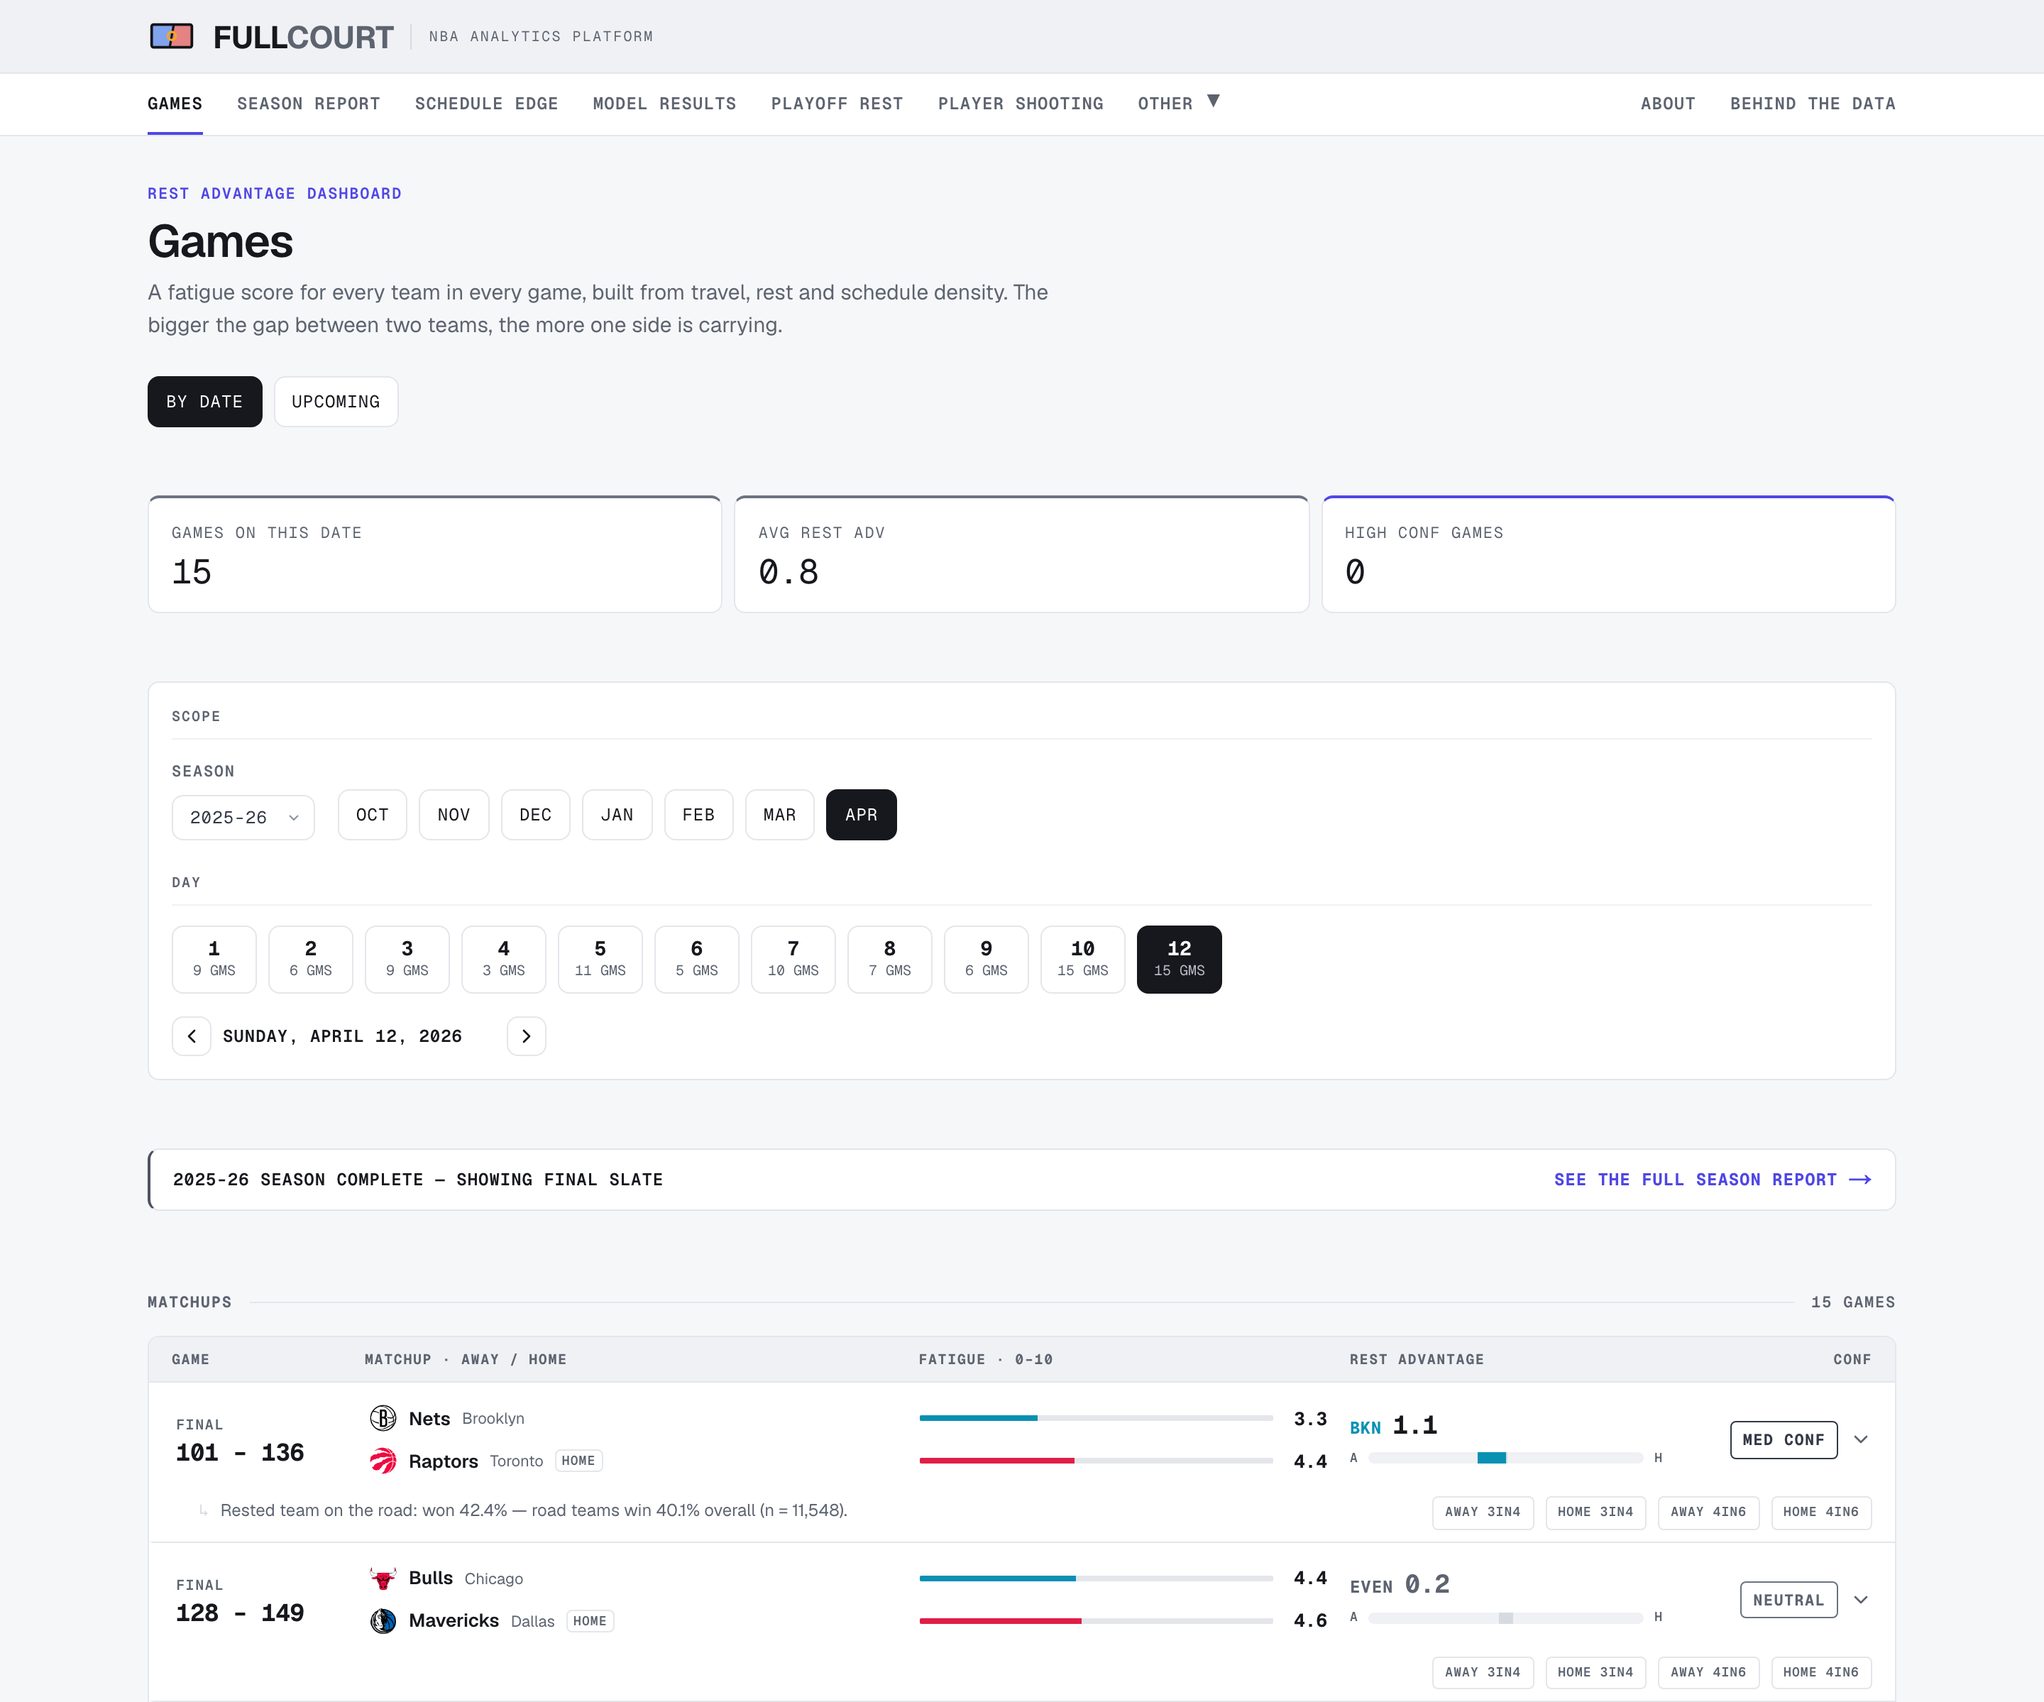
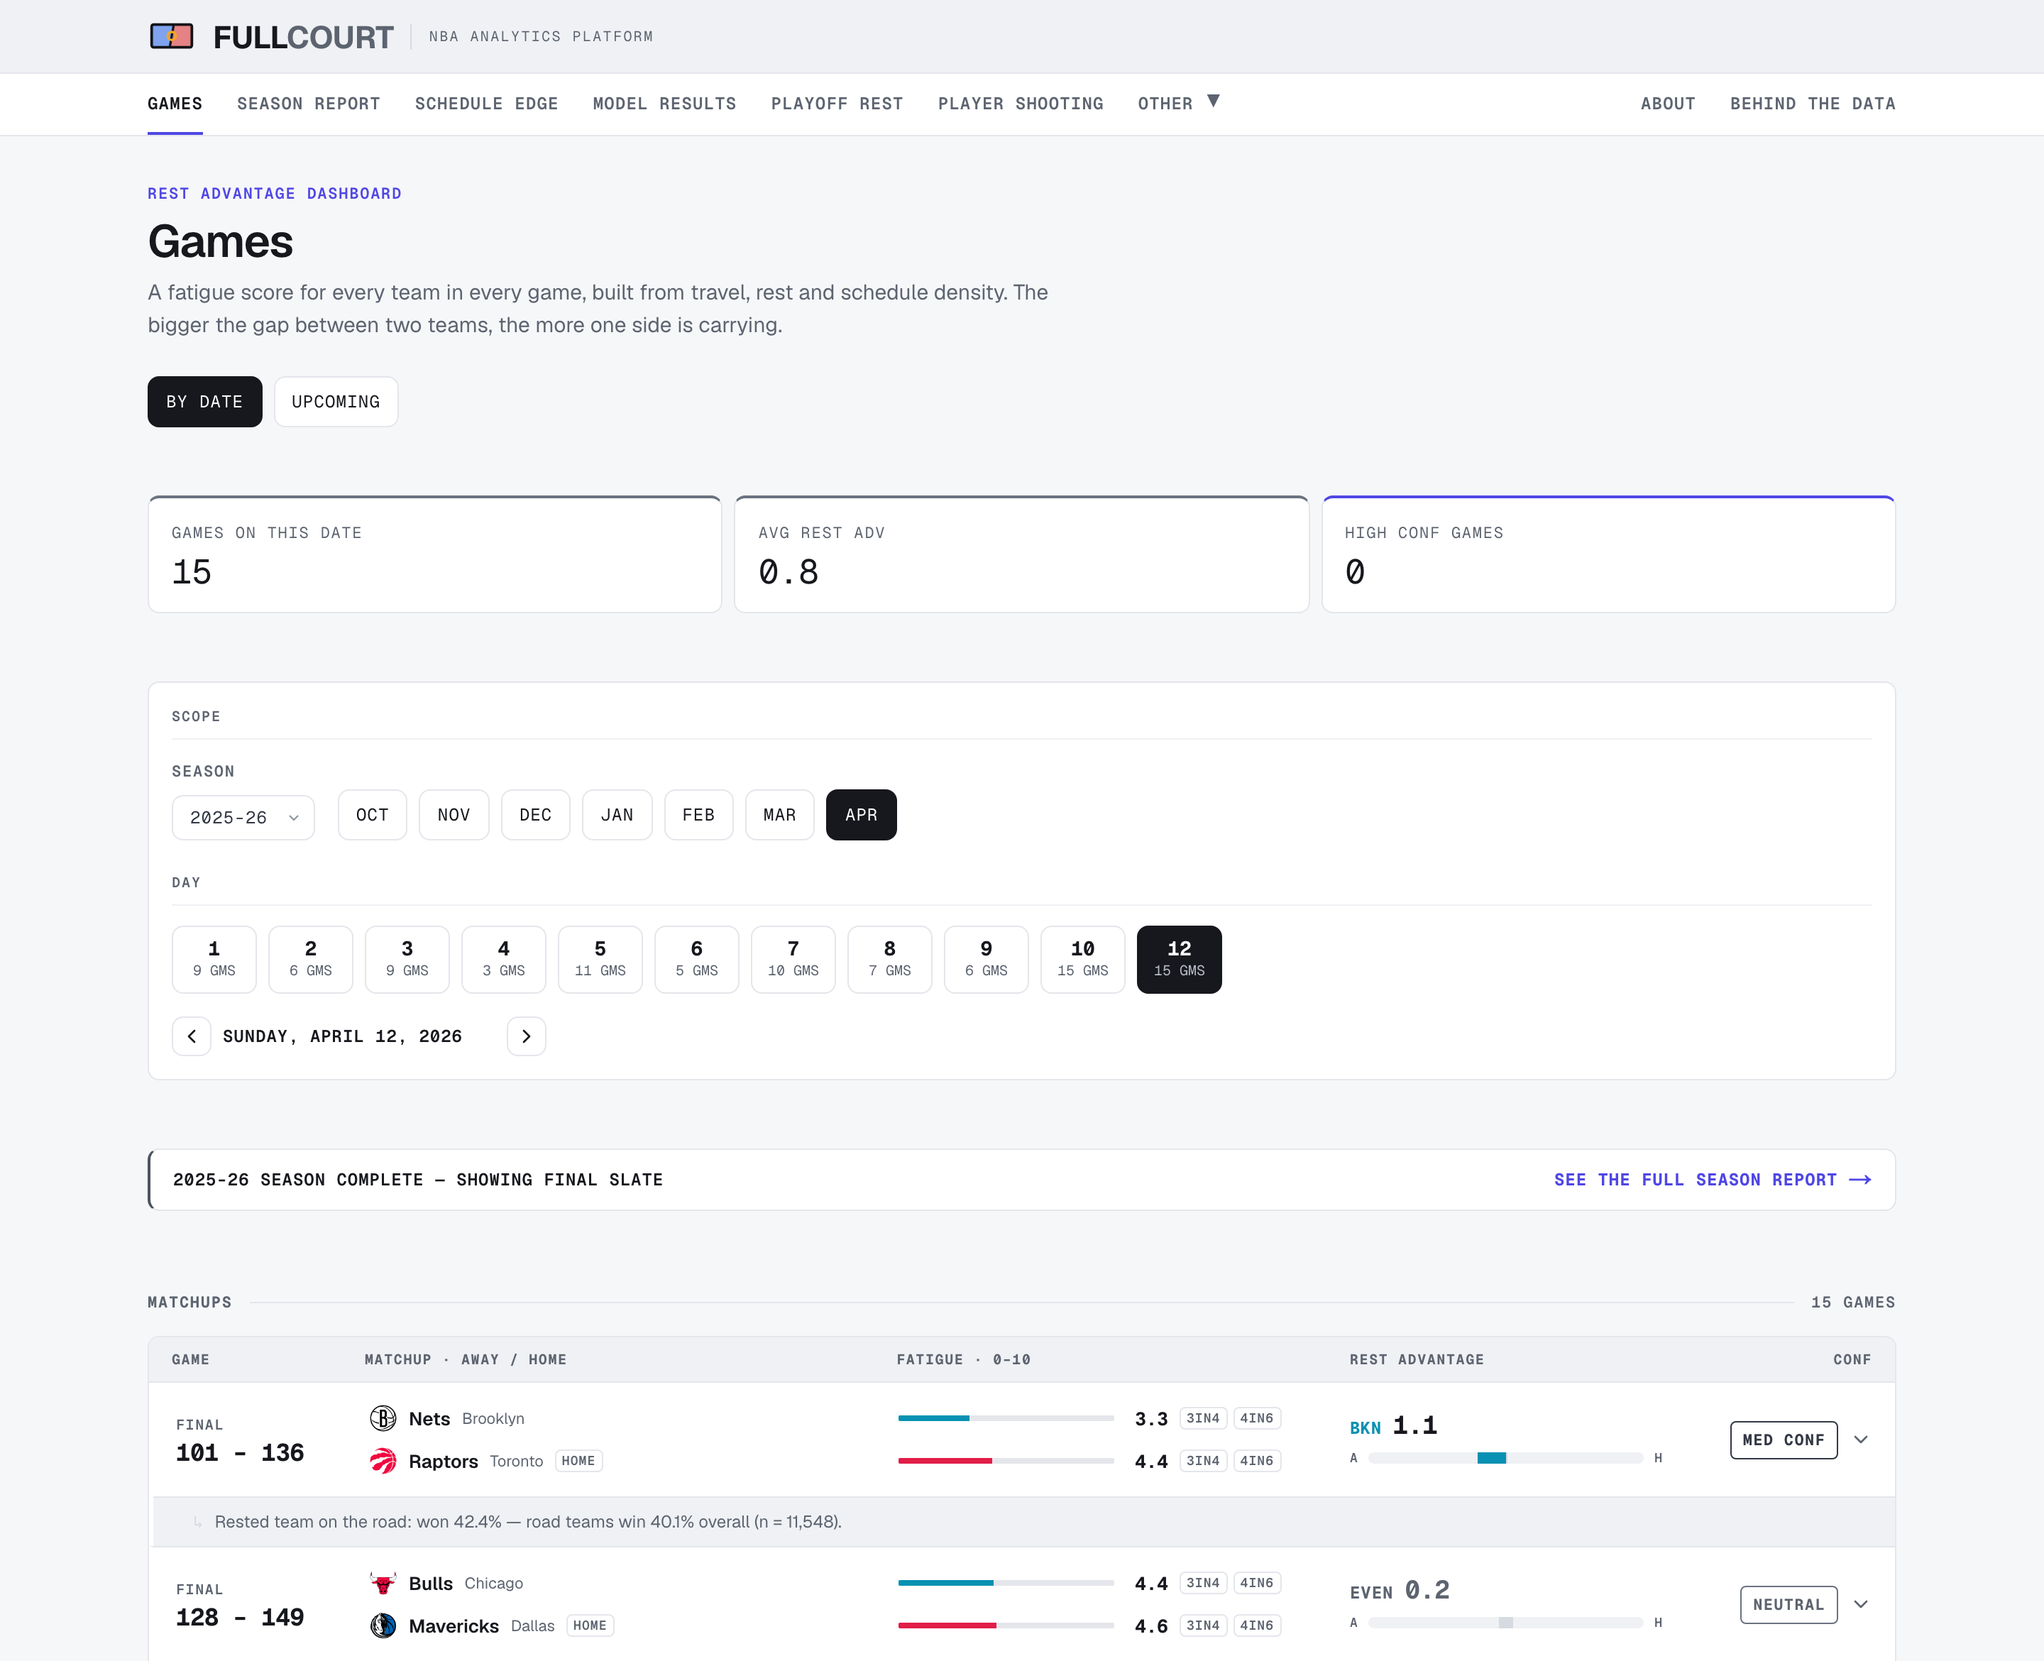
feat: give each team's schedule flags to its own fatigue line
The empty space under the team names was a full-width sub-row carrying
nothing but right-floated chips.

Measured over 79 games across ten dates: 53% of rows showed the evidence
sentence and the flags together, 43% showed flags with no sentence, and
0% ever showed a sentence with no flags. So the sub-row's two-up layout
only ever served the 'both' case, while 43% of rows paid a 32px band to
right-align three chips against 901px of nothing.

Flags now sit beside the fatigue score of the team they describe, which
is what they were describing all along, and drop the AWAY/HOME prefix —
roughly half of each chip's text, and redundant once the chip is on a
team's own line. teamGameFlags() also scopes overtime per team, which the
pooled gameFlags could not. Two chips a line then '+N', in a fixed 104px
strip so the fatigue numbers stay in one column; chips fill from the left
so a team with one flag lines up with the first flag of the team above.

The sub-row now renders for the sentence alone, tinted with a rule on top
so the height it adds reads as attached content. Rows without a sentence
are 81px against the old uniform 113px.

Fatigue column min 190 -> 232 and GRID_MIN_WIDTH 880 -> 920 to fit.

Alignment audit unchanged at 284. Vitest 621, e2e 117 passed / 5 skipped.

diff --git a/src/components/matchup-table.tsx b/src/components/matchup-table.tsx
@@ -7,7 +7,7 @@ import {
   ConfidenceBadge,
   FatigueDetailColumn,
   TeamLogo,
-  gameFlags,
+  teamGameFlags,
   getConfidence,
 } from "@/components/matchup-card"
 import { getTeamColors } from "@/lib/nba-team-colors"
@@ -17,6 +17,7 @@ import {
   type RestAdvantageEvidenceSource,
 } from "@/lib/rest-advantage-display"
 import { getTeamBranding } from "@/lib/team-history"
+import { SPACE_NESTED_ROW } from "@/lib/terminal-styles"
 import { cn } from "@/lib/utils"
 import type { GameResponse } from "@/types"
 
@@ -40,8 +41,20 @@ import type { GameResponse } from "@/types"
 // Column template shared by the header row and every game row, so the header can
 // never drift out of line with the cells beneath it.
 const GRID_COLS =
-  "minmax(96px,120px) minmax(210px,1.3fr) minmax(190px,1fr) minmax(190px,220px) minmax(118px,132px)"
-const GRID_MIN_WIDTH = 880
+  "minmax(96px,120px) minmax(210px,1.3fr) minmax(232px,1.1fr) minmax(190px,220px) minmax(118px,132px)"
+// Raised from 880 with the fatigue column, which now carries each team's schedule flags beside
+// its score. Sum of the column minimums plus four 16px gaps is 900, so this clears it.
+const GRID_MIN_WIDTH = 920
+
+/**
+ * Width reserved for a line's flag chips, so the strip is identical on every line and the
+ * fatigue numbers stay in one column however many flags a team carries.
+ *
+ * Sized for the widest thing it can hold: two four-character chips plus a `+N` overflow chip
+ * and their gaps (~98px). A single "JET LAG" is wider than one 4-char chip but never shares
+ * the strip — it sorts fifth, so it only ever appears alone or beside "ALT".
+ */
+const FLAG_STRIP_W = 104
 
 // ─── Status cell ─────────────────────────────────────────────────
 
@@ -139,16 +152,68 @@ function TeamLine({
   )
 }
 
-function FatigueLine({ score, tone }: { score: number | null; tone: FatigueBarTone }) {
+/**
+ * How many flags a line shows before collapsing the rest into a count. Measured over 79 games
+ * across ten dates: 84% of team-lines carry two or fewer, but a visiting team can stack five
+ * (B2B + 3IN4 + 4IN6 + ALT + JET LAG). Rendering all of them would either blow the column or
+ * wrap the row to a second line, and a row whose height depends on its flag count is the
+ * problem this replaced.
+ */
+const MAX_INLINE_FLAGS = 2
+
+/** The schedule flag chip — the fatigue score's reason, sitting next to the score. */
+function FlagChip({ label, muted = false }: { label: string; muted?: boolean }) {
+  return (
+    <span
+      className="mono shrink-0"
+      style={{
+        fontSize: 9,
+        letterSpacing: "0.06em",
+        fontWeight: 600,
+        color: "var(--term-text-muted)",
+        border: `1px solid var(--term-${muted ? "surface-2" : "border"})`,
+        borderRadius: "var(--term-radius-sm)",
+        padding: "0 4px",
+        lineHeight: "14px",
+      }}
+    >
+      {label}
+    </span>
+  )
+}
+
+function FatigueLine({
+  score,
+  tone,
+  flags,
+}: {
+  score: number | null
+  tone: FatigueBarTone
+  flags: string[]
+}) {
+  const shown = flags.slice(0, MAX_INLINE_FLAGS)
+  const hidden = flags.length - shown.length
+
   return (
     <div className="flex items-center gap-2" style={{ height: TEAM_LINE_H }}>
       {score !== null ? (
-        <FatigueBar score={score} tone={tone} className="flex-1" />
+        <FatigueBar score={score} tone={tone} className="min-w-[36px] flex-1" />
       ) : (
-        <div className="flex-1" style={{ height: 4, background: "var(--term-surface-2)", borderRadius: "var(--term-radius-bar)" }} />
+        <div className="min-w-[36px] flex-1" style={{ height: 4, background: "var(--term-surface-2)", borderRadius: "var(--term-radius-bar)" }} />
       )}
       <span className="mono shrink-0 tabular-nums" style={{ width: 30, fontSize: 13, fontWeight: 700, color: "var(--term-text)", textAlign: "right" }}>
         {score !== null ? score.toFixed(1) : "—"}
+      </span>
+      {/* Fixed-width so the two lines' chips align with each other and with the rows above and
+          below, whether a team carries two flags, one, or none. Chips start from the strip's
+          left edge rather than filling from its right: a list that grows rightward keeps its
+          first item on one rail, so a team with one flag lines up with the first flag of the
+          team above it instead of with that team's second. */}
+      <span className="flex shrink-0 items-center justify-start gap-1" style={{ width: FLAG_STRIP_W }}>
+        {shown.map((flag) => (
+          <FlagChip key={flag} label={flag} />
+        ))}
+        {hidden > 0 && <FlagChip label={`+${hidden}`} muted />}
       </span>
     </div>
   )
@@ -275,7 +340,7 @@ function GameRow({
     () => buildRestAdvantageEvidence(game.restAdvantage, evidenceSource),
     [game.restAdvantage, evidenceSource]
   )
-  const flags = gameFlags(game)
+  const flags = teamGameFlags(game)
   const tones = fatigueTones(game.awayFatigue?.score ?? null, game.homeFatigue?.score ?? null)
   const isLive = game.status === "live"
 
@@ -339,8 +404,8 @@ function GameRow({
         </div>
 
         <div className="flex flex-col gap-1">
-          <FatigueLine score={game.awayFatigue?.score ?? null} tone={tones.away} />
-          <FatigueLine score={game.homeFatigue?.score ?? null} tone={tones.home} />
+          <FatigueLine score={game.awayFatigue?.score ?? null} tone={tones.away} flags={flags.away} />
+          <FatigueLine score={game.homeFatigue?.score ?? null} tone={tones.home} flags={flags.home} />
         </div>
 
         <RestAdvCell
@@ -358,42 +423,33 @@ function GameRow({
         </div>
       </div>
 
-      {/* Evidence + flags sub-row. Rendered only when there is something to say — a
-          neutral game with no schedule flags adds no row at all. */}
-      {(evidence || flags.length > 0) && (
+      {/* Evidence sub-row — the exception, and now genuinely one.
+          It used to carry the schedule flags too, right-floated opposite the sentence. Measured
+          over 79 games: 53% of rows had both, 43% had flags with no sentence, and 0% ever had a
+          sentence with no flags. So the two-up layout only served the "both" case, while the
+          43% paid a full 32px band to right-align three chips against 901px of nothing — the
+          empty space under the team names. The flags now sit on their own team's fatigue line,
+          which is where they were describing all along, and this band renders for the sentence
+          alone. 47% of rows lose it entirely.
+          Tinted with a rule on top so the height it does add reads as attached content rather
+          than as the row having grown. */}
+      {evidence && (
         <div
-          className="flex flex-wrap items-baseline gap-x-3 gap-y-1"
-          style={{ padding: "0 16px 8px 32px" }}
+          style={{
+            // SPACE_NESTED_ROW, not a hand-set 32: this is a row nested inside a row group, the
+            // same shape as /shooting's expanded seasons, and docs/FRONTEND.md sanctions exactly
+            // one third rail. A second nested indent here would make that false.
+            padding: `8px 16px 8px ${SPACE_NESTED_ROW}px`,
+            background: "var(--term-surface-2)",
+            borderTop: "1px solid var(--term-border)",
+          }}
         >
-          {evidence && (
-            <p className="m-0 flex min-w-0 items-baseline gap-2" style={{ fontSize: 12, lineHeight: 1.5, color: "var(--term-text-muted)" }}>
-              <span aria-hidden className="mono" style={{ color: "var(--term-hairline)" }}>
-                ↳
-              </span>
-              {evidence.sentence}
-            </p>
-          )}
-          {flags.length > 0 && (
-            <span className="ml-auto flex shrink-0 flex-wrap gap-2">
-              {flags.map((flag) => (
-                <span
-                  key={flag}
-                  className="mono"
-                  style={{
-                    fontSize: 9,
-                    letterSpacing: "0.06em",
-                    fontWeight: 600,
-                    color: "var(--term-text-muted)",
-                    border: "1px solid var(--term-border)",
-                    borderRadius: "var(--term-radius-sm)",
-                    padding: "4px 8px",
-                  }}
-                >
-                  {flag}
-                </span>
-              ))}
+          <p className="m-0 flex min-w-0 items-baseline gap-2" style={{ fontSize: 12, lineHeight: 1.5, color: "var(--term-text-muted)" }}>
+            <span aria-hidden className="mono" style={{ color: "var(--term-hairline)" }}>
+              ↳
             </span>
-          )}
+            {evidence.sentence}
+          </p>
         </div>
       )}
 

diff --git a/src/components/matchup-card.tsx b/src/components/matchup-card.tsx
@@ -384,6 +384,34 @@ function RestAdvPanel({
 // ─── Metadata strip ──────────────────────────────────────────────
 
 /** The schedule-condition chips a game carries. One list, shared by the card strip and the table sub-row. */
+/**
+ * The same schedule flags as {@link gameFlags}, but split by the team they describe and with
+ * the AWAY/HOME prefix dropped.
+ *
+ * Every one of these is already read off one team's fatigue record — the prefix existed only
+ * because `gameFlags` pools them into a single strip, where a bare "3IN4" would not say whose.
+ * Rendered on a team's own line the prefix is noise, and it was roughly half of each chip.
+ *
+ * Altitude and jet lag are away-only by construction: they are what the *visiting* team carries
+ * into the building. Overtime is scoped per team here rather than pooled as one game-level flag,
+ * which `gameFlags` cannot do — a team that played an OT game yesterday is the one paying for it.
+ */
+export function teamGameFlags(game: GameResponse): { away: string[]; home: string[] } {
+  const away: string[] = []
+  const home: string[] = []
+  if (game.awayFatigue?.isBackToBack) away.push("B2B")
+  if (game.awayFatigue?.is3In4) away.push("3IN4")
+  if (game.awayFatigue?.is4In6) away.push("4IN6")
+  if (game.awayFatigue?.altitudePenalty) away.push("ALT")
+  if (game.awayFatigue?.hasTimeZoneDisplacement) away.push("JET LAG")
+  if (game.awayFatigue?.isOvertimePenalty) away.push("OT")
+  if (game.homeFatigue?.isBackToBack) home.push("B2B")
+  if (game.homeFatigue?.is3In4) home.push("3IN4")
+  if (game.homeFatigue?.is4In6) home.push("4IN6")
+  if (game.homeFatigue?.isOvertimePenalty) home.push("OT")
+  return { away, home }
+}
+
 export function gameFlags(game: GameResponse): string[] {
   const flags: string[] = []
   if (game.awayFatigue?.isBackToBack) flags.push("AWAY B2B")

diff --git a/docs/FRONTEND.md b/docs/FRONTEND.md
@@ -93,6 +93,19 @@ upcoming October date at season start; else nearest / last available).
   `MatchupCard`s, with the same expand-in-place fatigue detail per game. `MatchupCard` still
   exports the shared pieces (`ConfidenceBadge`, `FatigueDetailColumn`, `RaBadge`, …) the table
   and the detail modal consume.
+- **Schedule flags sit on their own team's fatigue line, not in a shared strip** (2026-08-11),
+  via `teamGameFlags()` — which is why they read `3IN4` rather than `AWAY 3IN4`: on a team's own
+  line the prefix says nothing, and it was half of each chip. Two per line, then `+N`; the strip
+  is a fixed 104px so the fatigue numbers stay in one column however many flags a team carries.
+  They used to share a full-width sub-row with the evidence sentence, right-floated opposite it.
+  Measured over 79 games: 53% of rows had both, **43% had flags and no sentence, and 0% ever had
+  a sentence and no flags** — so the two-up layout only ever served the "both" case, while 43%
+  of rows paid a 32px band to right-align three chips against 901px of nothing. That empty space
+  under the team names is what this removed; rows without a sentence are now 81px against 116px
+  with one.
+- **The evidence sub-row is tinted (`--term-surface-2`) with a rule on top**, so the height it
+  adds reads as attached content rather than as the row having grown. It indents by
+  `SPACE_NESTED_ROW`, the one third rail the alignment law sanctions.
 - The first tile is **"GAMES ON THIS DATE"**, not "GAMES TODAY": its value is
   `mergedGames.length` for the *selected* day, and `pickDefaultGamesDate` deliberately selects
   a non-today date whenever today has no games (the normal case in the off-season).
